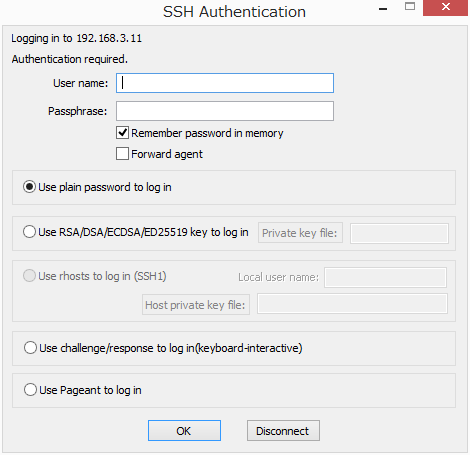
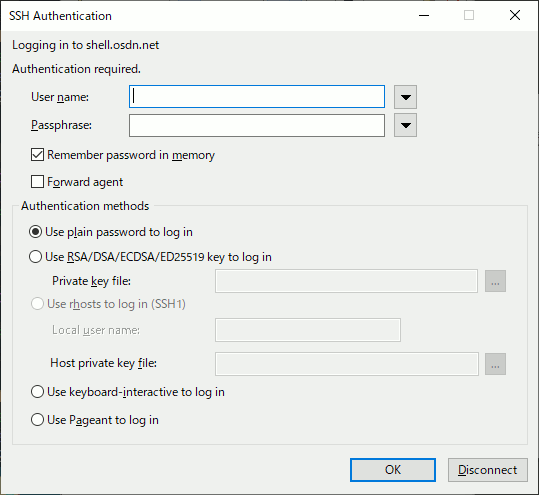
ssh authダイアログのドキュメント追記、ダイアログのスクリーンショット(Authentication.png)を差し替え
git-svn-id: https://svn.osdn.net/svnroot/ttssh2/trunk@7640 f5f01b69-1e22-0410-acbf-894ab4bd6246

diff --git a/doc/en/html/usage/ssh.html b/doc/en/html/usage/ssh.html
@@ -77,7 +77,9 @@
 	  the server is accessed according to the <a href="../menu/setup-sshauth.html#CheckAuthListFirst">setting</a>.
 	</p>
 	<p>
-	  You can select an option by pushing the button next to the username field.
+	  You can select an option by pushing the button next to the username box.
+	  If username is empty, tab key moves focus to this button.
+	  If username was enterd, tab key moves focus to password and passphrase input box.
 	  <dl>
 		<dt>Paste Windows usename</dt>
 		<dd>Windows username was entered</dd>
